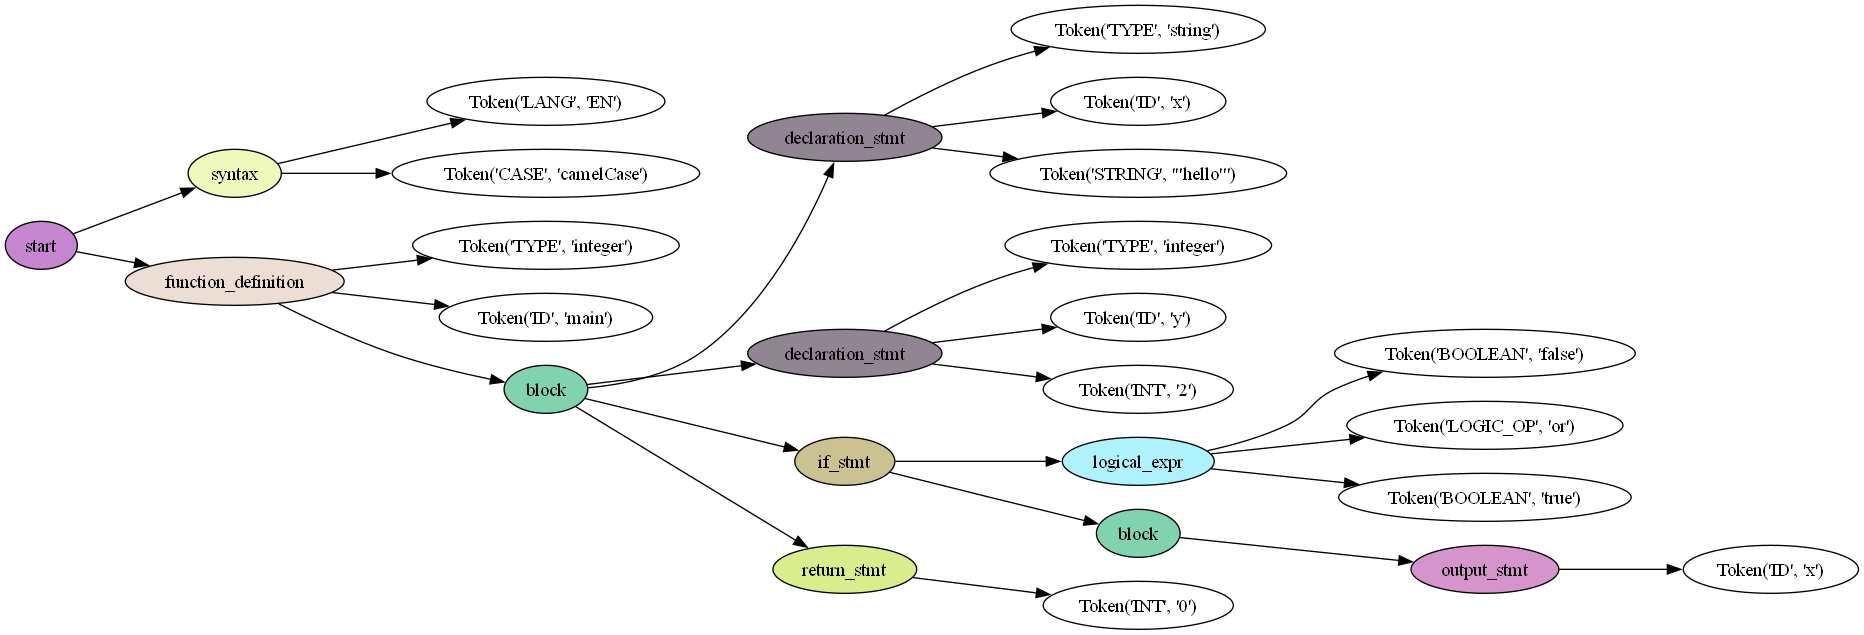
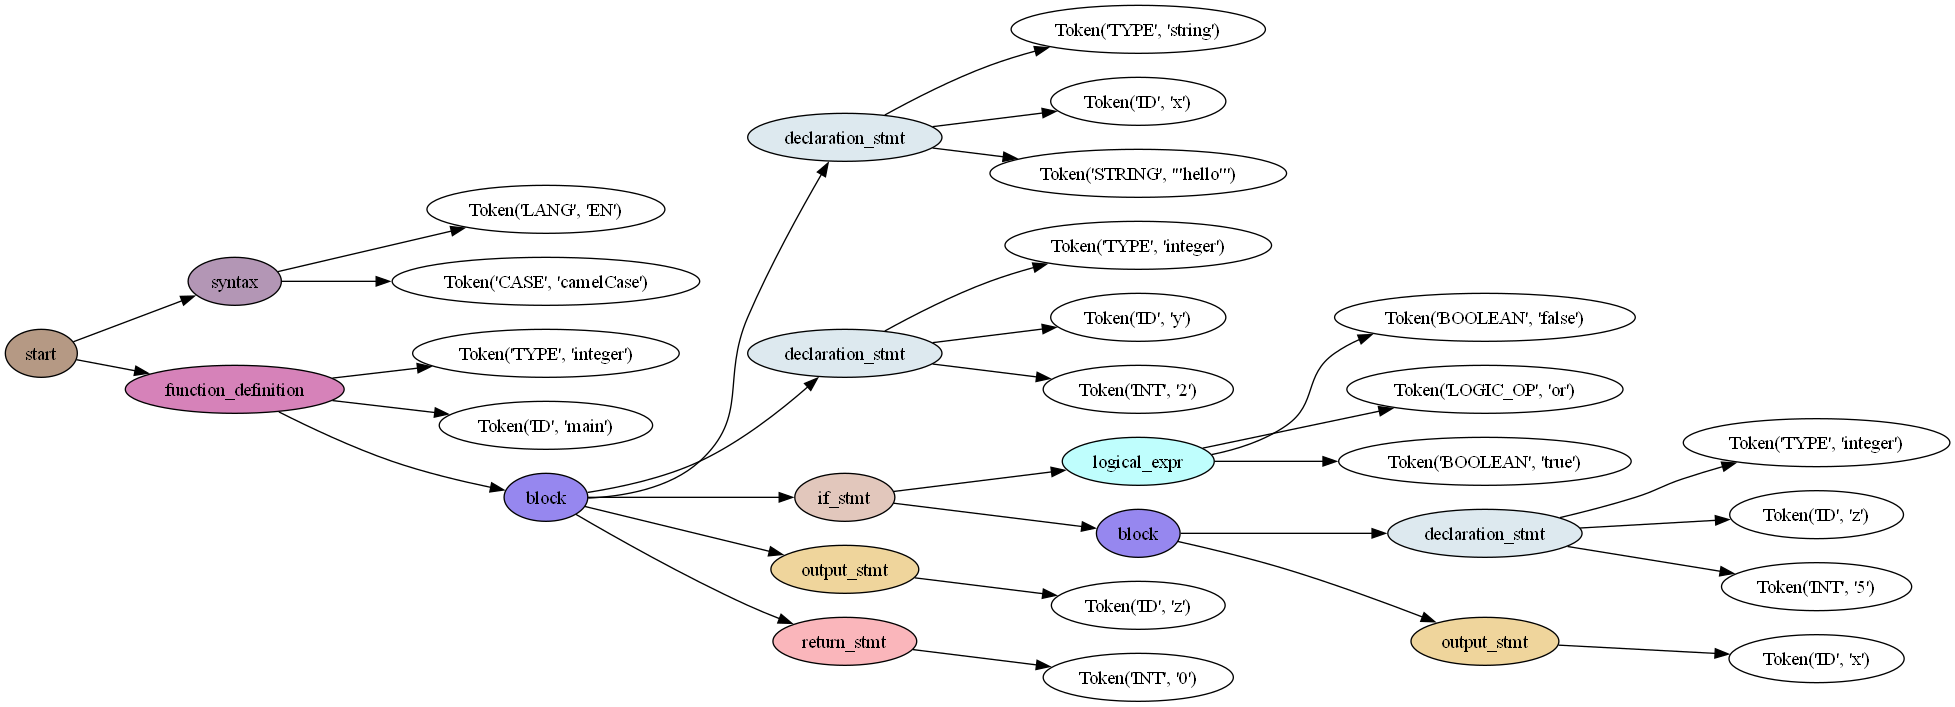
refactor and fixed logic in checks

Changed region(s): [[0.0, 0.0, 1.0, 1.0], [0.1867, 0.3291, 0.2178, 0.3591], [0.1867, 0.2094, 0.2178, 0.2394]]

diff --git a/src/p4/semantics_checker.py b/src/p4/semantics_checker.py
@@ -18,8 +18,9 @@ class FunctionSig:
     ret: str
     body: Tree
 
-# main checker
+# static semantics checker
 class SemanticsChecker:
+    # primitive sets
     PRIMITIVES = {"boolean", "integer", "decimal", "string", "noType"}
     _NUM = {"integer", "decimal"}
     _ARITH = _NUM | {"string"}
@@ -28,27 +29,28 @@ class SemanticsChecker:
         self._vars: ChainMap[str, str] = ChainMap()
         self._funcs: Dict[str, FunctionSig] = {}
         self._current_ret: str | None = None
-        self._in_global = True
-        self._case_style = "camelCase"
+        self._in_global: bool = True
+        self._case_style: str = "camelCase"
         self._func_order: list[str] = []
-        self._saw_syntax = False
+        self._saw_syntax: bool = False
+        self._in_expr_stmt: bool = False
 
-    # walker helpers
+    # main entry
     def run(self, tree: Tree) -> None:
         self._walk(tree)
         self._post_checks()
 
+    # walker
     def _walk(self, node: Tree | Token):
         if isinstance(node, Token):
             return self._visit_token(node)
-        method = getattr(self, f"visit_{node.data}", self._default)
-        return method(node)
+        return getattr(self, f"visit_{node.data}", self._default)(node)
 
     def _default(self, n: Tree):
         for ch in n.children:
             self._walk(ch)
 
-    # tokens
+    # token handling
     def _visit_token(self, tk: Token):
         if tk.type == "INT":     return "integer"
         if tk.type == "FLOAT":   return "decimal"
@@ -60,31 +62,29 @@ class SemanticsChecker:
             return self._vars[tk.value]
         return None
 
-    # syntax
+    # syntax header
     def visit_syntax(self, n: Tree):
         if self._saw_syntax:
             raise StructureError("Duplicate syntax header")
         lang, case = n.children[0].value, n.children[1].value
-        if lang not in {"EN", "DK"}: raise StructureError("Unsupported language") # Never called as incorrect results in parse error, could be useful if we change this
-        if case not in {"camelCase", "snake_case"}: raise StructureError("Unsupported case style") # Never called as incorrect results in parse error, could be useful if we change this
+        if lang not in {"EN", "DK"}: raise StructureError("Unsupported language")
+        if case not in {"camelCase", "snake_case"}: raise StructureError("Unsupported case style")
         self._case_style, self._saw_syntax = case, True
 
-    # program root
+    # start
     def visit_start(self, n: Tree):
         for ch in n.children:
             self._walk(ch)
             if isinstance(ch, Tree) and ch.data not in {"syntax", "function_definition"}:
                 raise StructureError("Only function definitions allowed at top level")
 
-    # function definition
+    # functions
     def visit_function_definition(self, n: Tree):
-        if not self._in_global:
-            raise StructureError("Nested functions not allowed")
+        if not self._in_global: raise StructureError("Nested functions not allowed")
         ret_t, fname = n.children[0].value, n.children[1].value
         params_node = next((c for c in n.children if isinstance(c, Tree) and c.data == "params"), None)
         body = n.children[-1]
-        if fname in self._funcs:
-            raise ScopeError(f"Function '{fname}' already defined")
+        if fname in self._funcs: raise ScopeError(f"Function '{fname}' already defined")
         self._func_order.append(fname)
 
         p_names, p_types = [], []
@@ -93,7 +93,8 @@ class SemanticsChecker:
                 ptype, pid = p.children[0].value, p.children[1].value
                 self._check_case(pid)
                 self._shadow_check(pid)
-                p_names.append(pid); p_types.append(ptype)
+                p_names.append(pid)
+                p_types.append(ptype)
 
         self._funcs[fname] = FunctionSig(p_types, ret_t, body)
 
@@ -101,70 +102,62 @@ class SemanticsChecker:
         self._vars = ChainMap(dict(zip(p_names, p_types)))
         self._current_ret, self._in_global = ret_t, False
         self._walk(body)
+
         if ret_t != "noType" and not self._body_guarantees_return(body):
             raise StructureError(f"Function '{fname}' may exit without returning a value")
+
         self._vars, self._current_ret, self._in_global = outer_vars, outer_ret, outer_flag
         self._check_single_return(body)
 
-    # block (no new scope)
+    # blocks
     def visit_block(self, n: Tree):
-        for stmt in n.children:
-            self._walk(stmt)
+        for st in n.children:
+            self._walk(st)
 
     # declarations
     def visit_declaration_stmt(self, n: Tree):
         base, name = n.children[0].value, n.children[1].value
         self._check_case(name)
         self._shadow_check(name)
-
-        # array suffix handling
         idx, dims = 2, 0
-        while idx < len(n.children) \
-                and isinstance(n.children[idx], Tree) \
-                and n.children[idx].data == "array_suffix":
+        while idx < len(n.children) and isinstance(n.children[idx], Tree) and n.children[idx].data == "array_suffix":
             dims += 1
             idx += 1
-        declared = base + "[]" * dims
-
-        # look for an initialiser
+        declared_t = base + "[]" * dims
         rhs_node = None
-        if idx < len(n.children):  # something follows the ID
+        if idx < len(n.children):
             child = n.children[idx]
-            if isinstance(child, Token) and child.value == "=":
-                # classic parse: "=" then the expression
-                rhs_node = n.children[idx + 1] if idx + 1 < len(n.children) else None
-            else:
-                # transformed parse: expression directly; unwrap list if necessary
-                rhs_node = child[0] if isinstance(child, list) and child else child
-
+            rhs_node = n.children[idx + 1] if isinstance(child, Token) and child.value == "=" else child
+            if isinstance(rhs_node, list): rhs_node = rhs_node[0] if rhs_node else None
         if rhs_node is not None:
             rhs_t = self._walk(rhs_node)
-            if rhs_t not in {declared, "noType"}:
+            if rhs_t == "noType" and not self._is_input_expr(rhs_node):
+                raise TypeError_("Cannot initialise with value of noType")
+            if rhs_t != declared_t and rhs_t != "noType":
                 raise TypeError_(f"Initialiser type mismatch for '{name}'")
+        self._vars[name] = declared_t
 
-        # finally bind the variable in the current scope
-        self._vars[name] = declared
-
-    # assignment
+    # assignments
     def visit_assignment_stmt(self, n: Tree):
         lval, rhs_node = n.children[0], n.children[-1]
         name = lval.children[0].value
-        if name not in self._vars:
-            raise ScopeError(f"Variable '{name}' not declared")
+        if name not in self._vars: raise ScopeError(f"Variable '{name}' not declared")
         var_t = self._vars[name]
         indices = [c for c in lval.children[1:] if c.data == "array_access_suffix"]
         for suf in indices:
             if self._walk(suf.children[0]) != "integer":
                 raise TypeError_("Array index must be integer")
         rhs_t = self._walk(rhs_node)
+        if rhs_t == "noType" and not self._is_input_expr(rhs_node):
+            raise TypeError_("Cannot assign value of noType")
         if indices:
             if var_t.count("[]") < len(indices):
                 raise TypeError_("Too many indices for array")
             elem_t = var_t[:-2 * len(indices)]
-            if rhs_t not in {elem_t, "noType"}:
+            if rhs_t != elem_t and rhs_t != "noType":
                 raise TypeError_("Assignment type mismatch")
         else:
-            if rhs_t not in {var_t, "noType"}:
+            if rhs_t != var_t and rhs_t != "noType":
                 raise TypeError_("Assignment type mismatch")
 
     # control flow
@@ -186,109 +179,118 @@ class SemanticsChecker:
         if expr_t not in {self._current_ret, "noType"}:
             raise TypeError_("Return type mismatch")
 
-    # expressions
-    def visit_arit_expr(self, n: Tree):
-        t0 = self._walk(n.children[0])
-        if t0 not in self._ARITH:
-            raise TypeError_("Arithmetic requires number/string")
-        for i in range(2, len(n.children), 2):
-            if self._walk(n.children[i]) != t0:
-                raise TypeError_("Mixed-type arithmetic not allowed")
-        return t0
+    # expression statement
+    def visit_expr_stmt(self, n: Tree):
+        prev = self._in_expr_stmt
+        self._in_expr_stmt = True
+        self._walk(n.children[0])
+        self._in_expr_stmt = prev
 
-    def visit_compare_expr(self, n: Tree):
-        left_t, op_tok, right_t = self._walk(n.children[0]), n.children[1], self._walk(n.children[2])
+    # arithmetic expression
+    def visit_arit_expr(self, n: Tree):
+        left_t = self._walk(n.children[0])
+        op_tok: Token = n.children[1] if len(n.children) == 3 else None
+        if op_tok is None:
+            return left_t
+        right_t = self._walk(n.children[2])
         op = op_tok.value
-        if op in {"==", "!="}:
-            if left_t != right_t:
-                raise TypeError_("Operands of == or != must match")
-        else:
+        if op == "+":
+            if left_t != right_t or left_t not in self._ARITH:
+                raise TypeError_("operands of + must match and be numeric or string")
+            return left_t
+        if op in {"-", "*", "%"}:
             if left_t != right_t or left_t not in self._NUM:
-                raise TypeError_("Operands of relational operator must both be integer or decimal")
+                raise TypeError_(f"operands of {op} must both be integer or decimal")
+            return left_t
+        if op == "/":
+            if left_t != right_t or left_t not in self._NUM:
+                raise TypeError_("operands of / must both be integer or decimal")
+            return "decimal"
+        raise StructureError(f"unknown operator {op}")
+
+    # comparison
+    def visit_compare_expr(self, n: Tree):
+        l_t = self._walk(n.children[0])
+        op = n.children[1].value
+        r_t = self._walk(n.children[2])
+        if op in {"==", "!="}:
+            if l_t != r_t: raise TypeError_("operands of ==/!= must match")
+        else:
+            if l_t != r_t or l_t not in self._NUM:
+                raise TypeError_(f"operands of {op} must both be integer or decimal")
         return "boolean"
 
+    # logical and/or
     def visit_logical_expr(self, n: Tree):
-        # every operand (even indices) must be boolean
         for i in range(0, len(n.children), 2):
             if self._walk(n.children[i]) != "boolean":
-                raise TypeError_("and/or operands must be boolean")
+                raise TypeError_("logical operands must be boolean")
         return "boolean"
 
     # array literal
     def visit_array_literal(self, n: Tree):
-        if not n.children: raise TypeError_("Empty array literal")
+        if not n.children:
+            raise TypeError_("empty array literal")
         elems = [self._walk(c) for c in n.children[0].children if not (isinstance(c, Token) and c.value == ",")]
         if any(t != elems[0] for t in elems):
-            raise TypeError_("Array elements must share type")
+            raise TypeError_("array elements must share type")
         return elems[0] + "[]"
 
-    # postfix (function call / index)
+    # postfix (calls / indexing)
     def visit_postfix_expr(self, n: Tree):
         primary = n.children[0]
-        # Determine if this is a function call on an identifier
-        id_tok = primary if isinstance(primary, Token) and primary.type == "ID" else None
-        cur_t = None
-        # Walk through suffixes
+        id_tok: Token | None = primary if isinstance(primary, Token) and primary.type == "ID" else None
+        cur_t: str | None = None
         for suf in n.children[1:]:
             if suf.data == "call_suffix":
-                # Function call
                 if id_tok is None:
-                    raise StructureError("Function call must target identifier")
+                    raise StructureError("function call must target identifier")
                 sig = self._funcs.get(id_tok.value)
                 if sig is None:
-                    raise ScopeError(f"Call to undefined function '{id_tok.value}'")
-                # Gather argument nodes
+                    raise ScopeError(f"call to undefined function '{id_tok.value}'")
                 raw_args = suf.children[0].children if suf.children else []
                 arg_nodes = [c for c in raw_args if not (isinstance(c, Token) and c.value == ",")]
                 arg_types = [self._walk(a) for a in arg_nodes]
-                # Check argument count
                 if len(arg_types) != len(sig.params):
-                    raise StructureError(f"Wrong number of arguments in call to '{id_tok.value}'")
-                # Check argument types
-                for a, e in zip(arg_types, sig.params):
-                    if a not in {e, "noType"}:
-                        raise TypeError_("Argument type mismatch")
-                cur_t = sig.ret
-                # After a call, no further calls allowed on same identifier
-                id_tok = None
+                    raise StructureError(f"wrong number of arguments in call to '{id_tok.value}'")
+                for a, expected in zip(arg_types, sig.params):
+                    if a not in {expected, "noType"}:
+                        raise TypeError_("argument type mismatch")
+                cur_t, id_tok = sig.ret, None
             elif suf.data == "array_access_suffix":
-                # Array indexing
-                if cur_t is None:
-                    # First suffix, primary should be var or array literal
-                    cur_t = self._walk(primary)
+                cur_t = self._walk(primary) if cur_t is None else cur_t
                 if not cur_t.endswith("[]"):
-                    raise TypeError_("Indexing non-array")
+                    raise TypeError_("indexing non-array value")
                 if self._walk(suf.children[0]) != "integer":
-                    raise TypeError_("Array index must be integer")
-                # Strip one array dimension
+                    raise TypeError_("array index must be integer")
                 cur_t = cur_t[:-2]
             else:
-                raise StructureError("Unexpected postfix suffix")
-        # If no suffix processed, just primary
+                raise StructureError("unexpected postfix suffix")
         if cur_t is None:
-            return self._walk(primary)
+            cur_t = self._walk(primary)
+        if cur_t == "noType" and not self._in_expr_stmt:
+            raise TypeError_("void value used in expression")
         return cur_t
 
-    # input
+    # input lit
     def visit_input_expr(self, _): return "noType"
 
     # helpers
     def _check_case(self, name: str):
         if self._case_style == "camelCase":
-            if "_" in name or not name[0].islower():
-                raise CaseError(f"'{name}' not camelCase")
+            if "_" in name or not name[0].islower(): raise CaseError(f"'{name}' not camelCase")
         else:
-            if any(c.isupper() for c in name):
-                raise CaseError(f"'{name}' not snake_case")
+            if any(c.isupper() for c in name): raise CaseError(f"'{name}' not snake_case")
 
     def _shadow_check(self, name: str):
-        if name in self._vars:
-            raise ScopeError(f"Shadowing '{name}'")
+        if name in self._vars: raise ScopeError(f"shadowing '{name}'")
 
-    # global post checks
+    def _is_input_expr(self, node: Tree | Token | None) -> bool:
+        return isinstance(node, Tree) and node.data == "input_expr"
+
+    # global checks
     def _post_checks(self):
-        if not self._saw_syntax:
-            raise StructureError("Missing syntax header")
+        if not self._saw_syntax: raise StructureError("missing syntax header")
         if not self._func_order or self._func_order[-1] != "main" or self._func_order.count("main") != 1:
             raise StructureError("'main' must be last function")
 
@@ -312,8 +314,7 @@ class SemanticsChecker:
         if node.data == "return_stmt": return True
         if node.data == "block":
             for st in node.children:
-                if isinstance(st, Tree) and self._body_guarantees_return(st):
-                    return True
+                if isinstance(st, Tree) and self._body_guarantees_return(st): return True
             return False
         if node.data == "if_stmt":
             then_ok = self._body_guarantees_return(node.children[1])

diff --git a/src/p4/parse_tree_processor.py b/src/p4/parse_tree_processor.py
@@ -170,6 +170,3 @@ class ParseTreeProcessor(Transformer):
 
     def STRING(self, tok):
         return tok
-
-    def decimal(self, tok):
-        return tok
